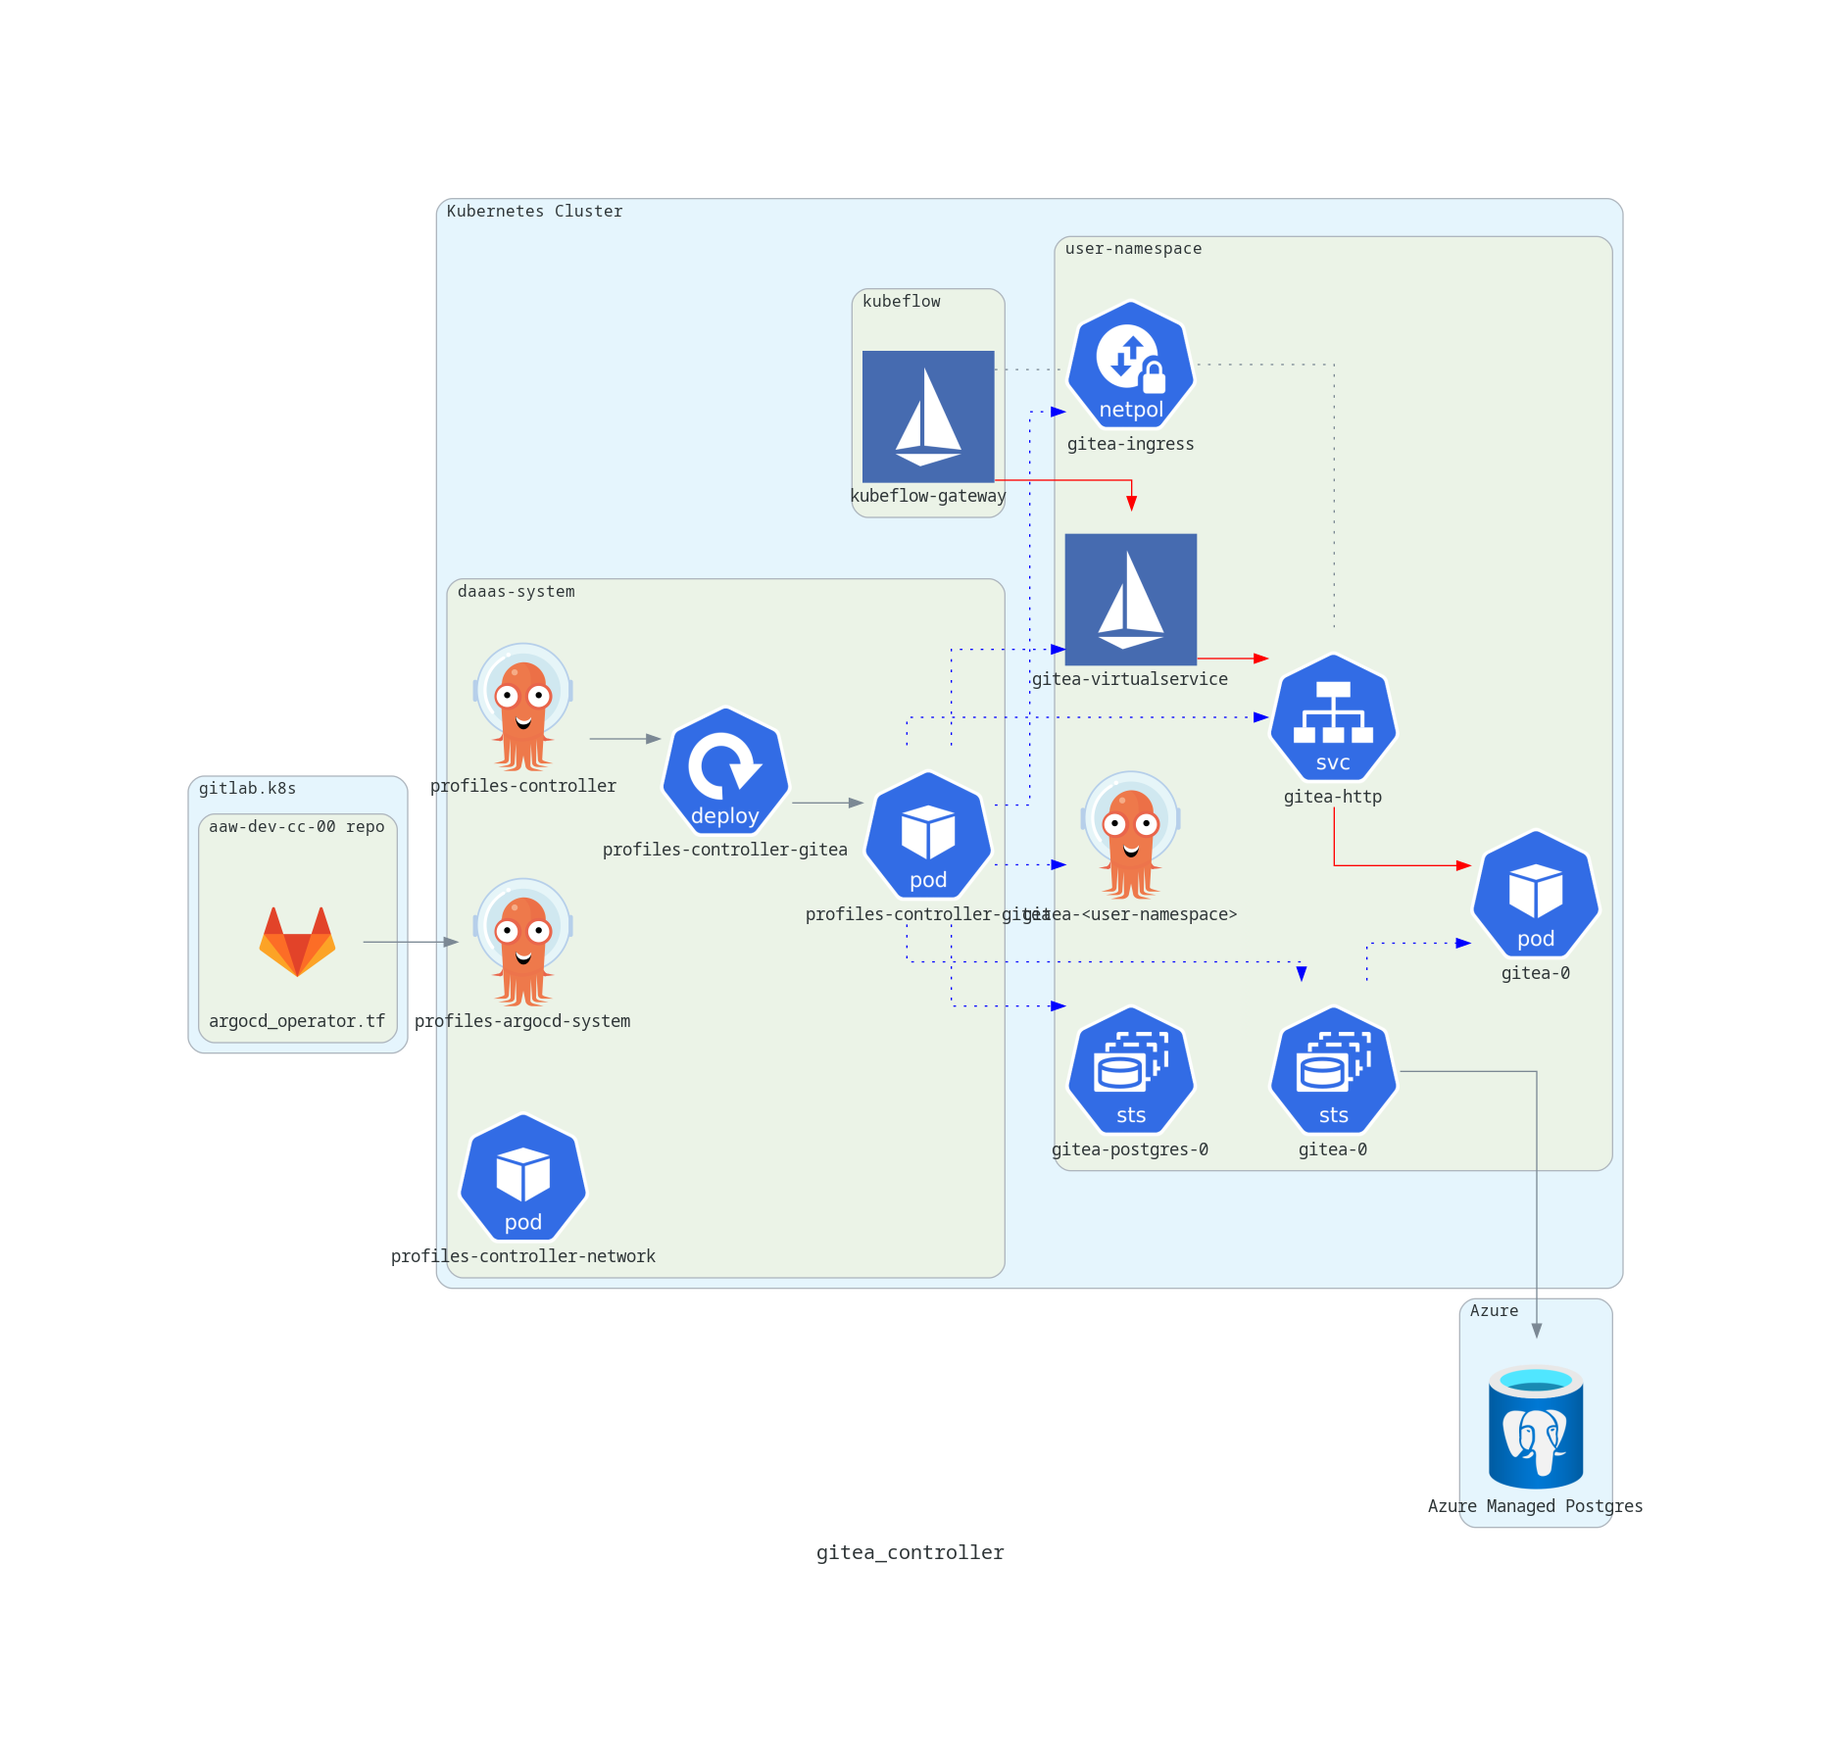
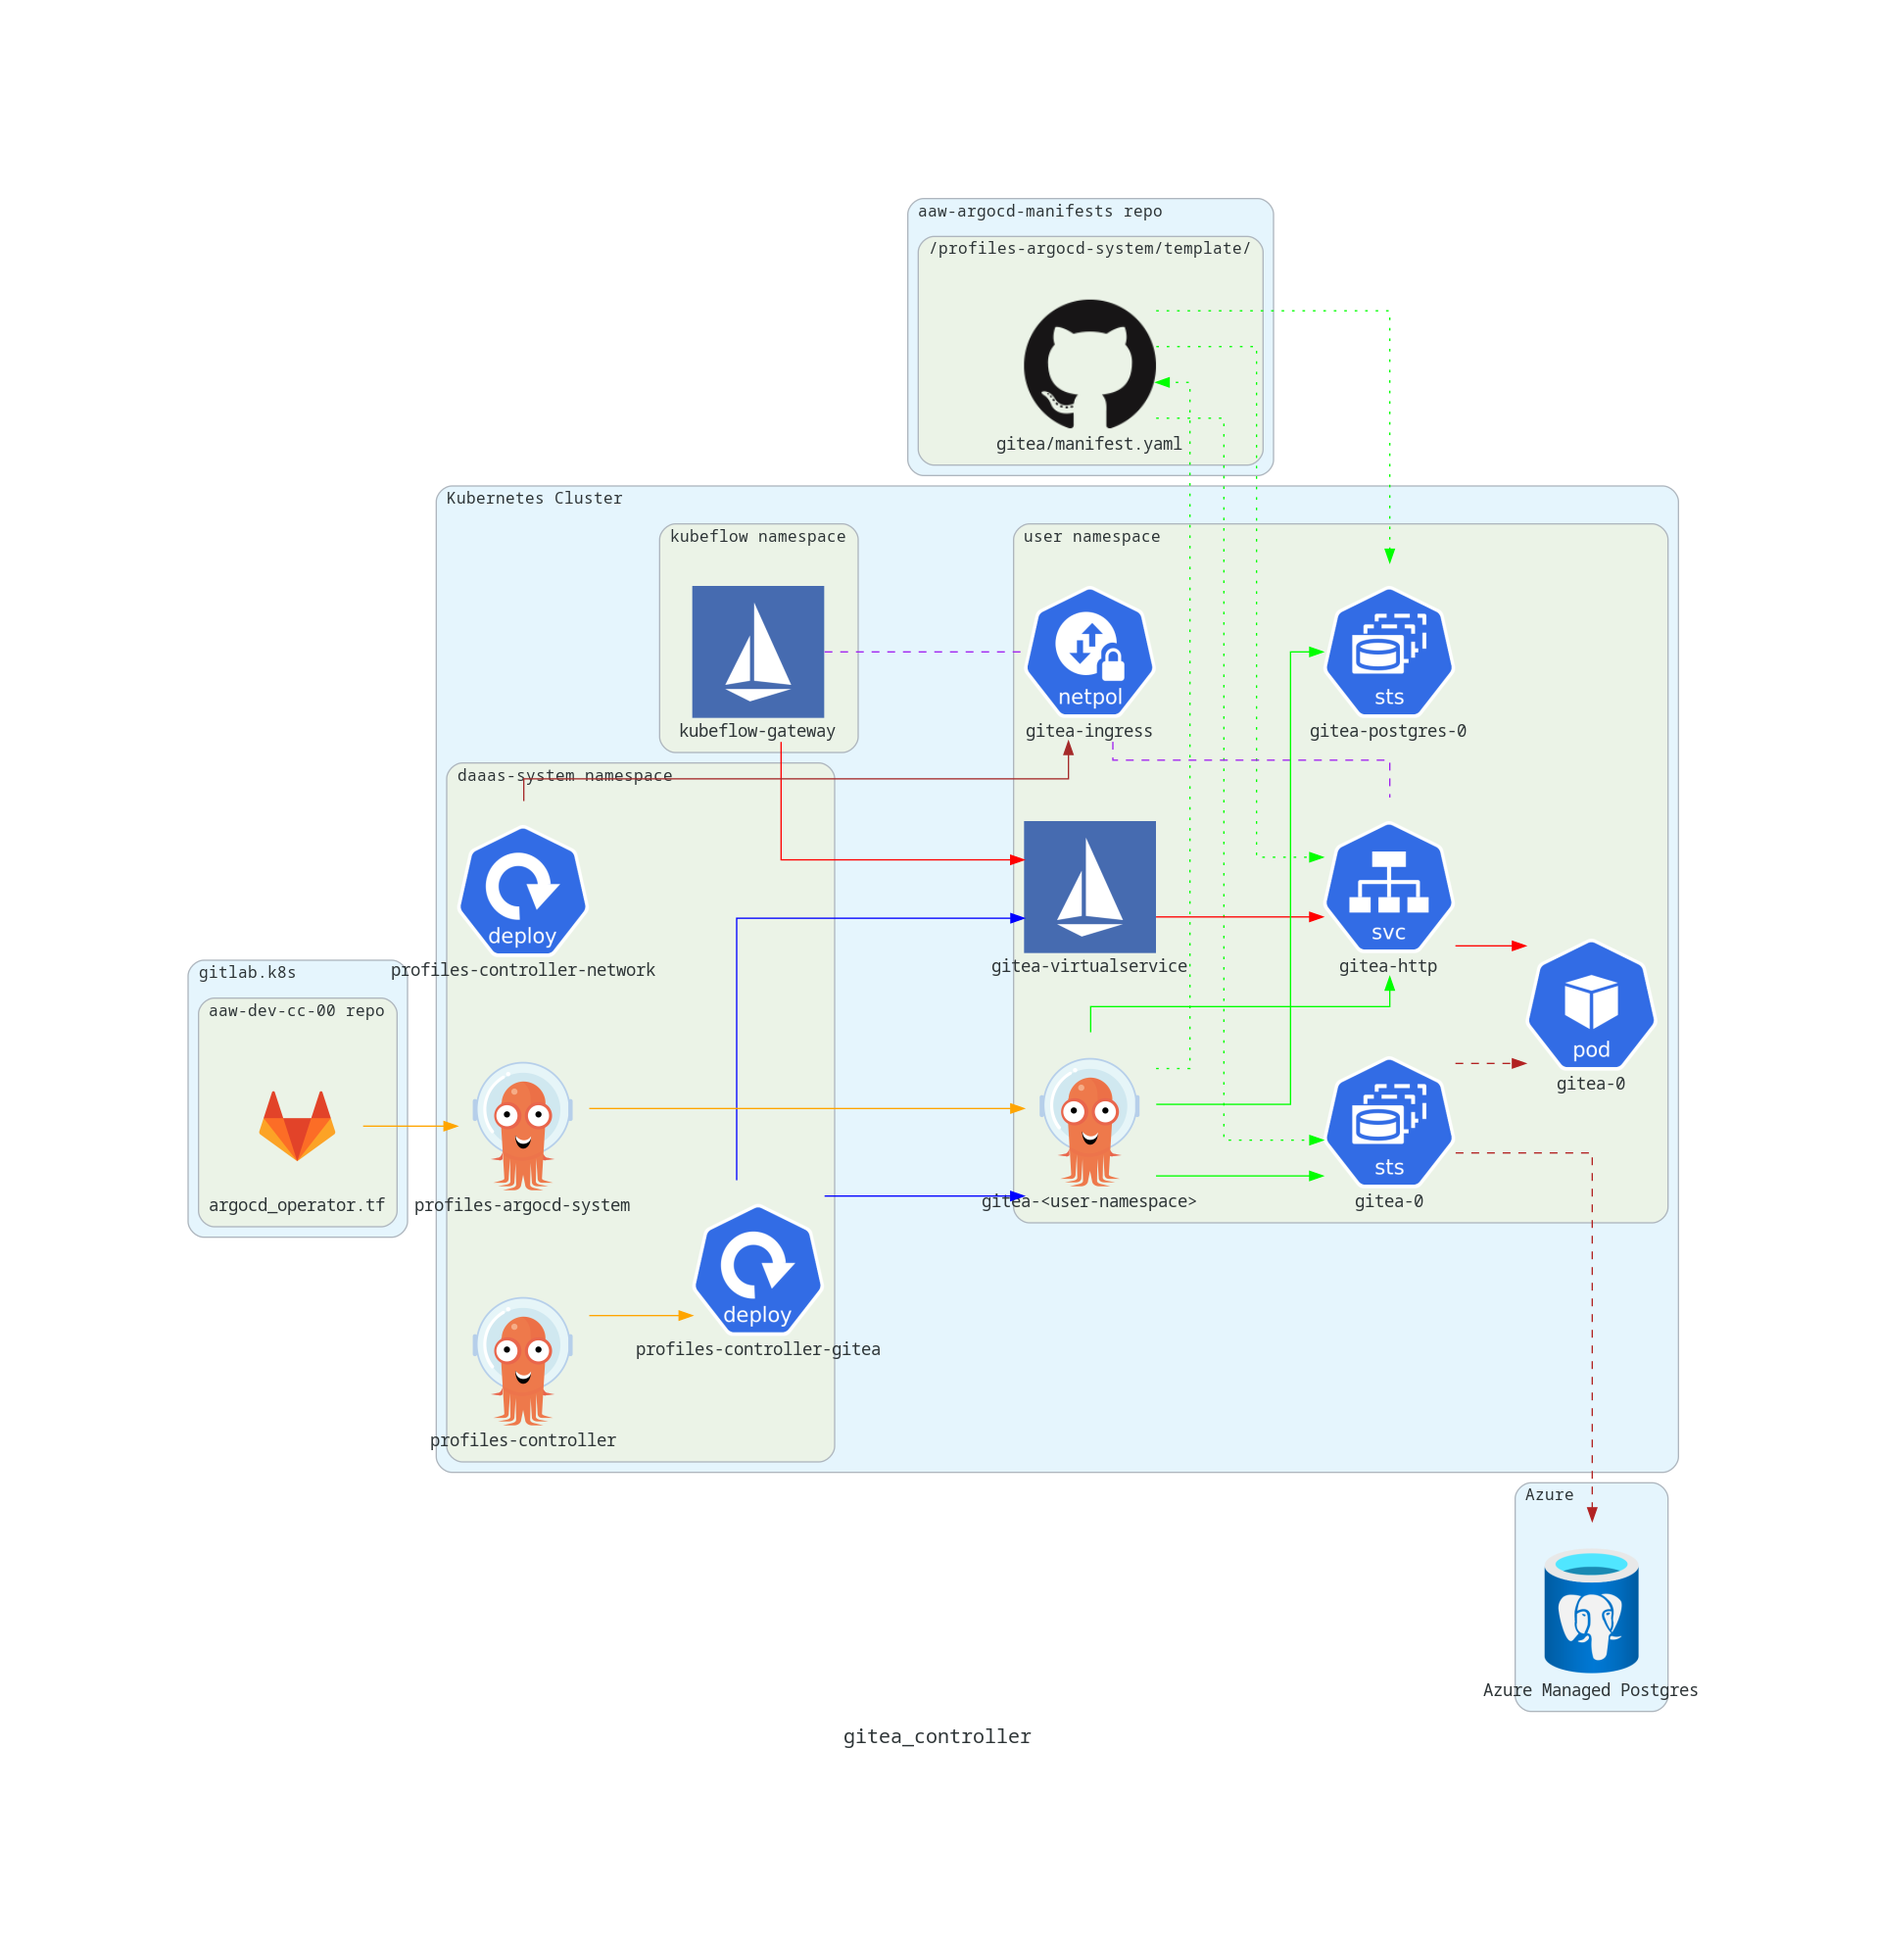
feat(README.md): add documentation for how to create/modify a controller

Changed region(s): [[0.0936, 0.0936, 0.9048, 0.9047], [0.6864, 0.5304, 0.78, 0.6552], [0.4368, 0.8735, 0.5616, 0.9047]]

diff --git a/docs/diagrams/gitea_controller.py b/docs/diagrams/gitea_controller.py
@@ -1,19 +1,10 @@
 import os
 
-from diagrams import Cluster
-from diagrams import Diagram
-from diagrams import Edge
-
+from diagrams import Cluster, Diagram, Edge
 from diagrams.azure.database import DatabaseForPostgresqlServers
-
-from diagrams.k8s.compute import Pod
-from diagrams.k8s.compute import StatefulSet
-from diagrams.k8s.compute import Deployment
-
-from diagrams.k8s.network import NetworkPolicy
-from diagrams.k8s.network import Service
-
 from diagrams.custom import Custom
+from diagrams.k8s.compute import Deployment, Pod, StatefulSet
+from diagrams.k8s.network import NetworkPolicy, Service
 
 
 def myself() -> str:
@@ -23,15 +14,19 @@ def myself() -> str:
 
 
 with Diagram(myself(), show=False):
+    with Cluster("aaw-argocd-manifests repo"):
+        with Cluster("/profiles-argocd-system/template/"):
+            github_manifests = Custom(
+                "gitea/manifest.yaml", icon_path="icons/github.png",
+            )
     with Cluster("gitlab.k8s"):
         with Cluster("aaw-dev-cc-00 repo"):
             gitlab_tf = Custom("argocd_operator.tf", icon_path="icons/gitlab.png")
     with Cluster("Azure"):
         postgres = DatabaseForPostgresqlServers("Azure Managed Postgres")
     with Cluster("Kubernetes Cluster"):
-        with Cluster("daaas-system"):
-            gitea_controller_pod = Pod("profiles-controller-gitea")
-            network_controller = Pod("profiles-controller-network")
+        with Cluster("daaas-system namespace"):
+            network_controller = Deployment("profiles-controller-network")
             profiles_controller_gitea = Deployment("profiles-controller-gitea")
             profiles_argocd_system = Custom(
                 "profiles-argocd-system", icon_path="icons/argo.png"
@@ -40,7 +35,7 @@ with Diagram(myself(), show=False):
                 "profiles-controller", icon_path="icons/argo.png"
             )
 
-        with Cluster("user-namespace"):
+        with Cluster("user namespace"):
             gitea_argocd = Custom("gitea-<user-namespace>", icon_path="icons/argo.png")
             gitea_ss = StatefulSet("gitea-0")
             gitea_pod = Pod("gitea-0")
@@ -48,30 +43,27 @@ with Diagram(myself(), show=False):
             gitea_http_service = Service("gitea-http")
             istio_vs = Custom("gitea-virtualservice", icon_path="icons/istio.png")
             network_policy = NetworkPolicy("gitea-ingress")
-        with Cluster("kubeflow"):
+        with Cluster("kubeflow namespace"):
             kubeflow_gateway = Custom("kubeflow-gateway", icon_path="icons/istio.png")
 
         # Gitea Statefulset manages a Gitea pod
-        gitea_ss >> Edge(style="dotted", color="blue") >> gitea_pod
+        gitea_ss >> Edge(style="dashed", color="firebrick") >> gitea_pod
 
         # Network policy permits kubeflow gateway pods to communicate with pods
         # exposed by the gitea-http service.
-        kubeflow_gateway - Edge(style="dotted") - network_policy - Edge(
-            style="dotted"
+        kubeflow_gateway - Edge(style="dashed", color="purple") - network_policy - Edge(
+            style="dashed", color="purple"
         ) - gitea_http_service
 
         # Gitea controller is deployed by the profiles-controller ArgoCD Application
-        profiles_controller_argocd >> profiles_controller_gitea >> gitea_controller_pod
+        profiles_controller_argocd >> Edge(color="orange") >> profiles_controller_gitea
         # Gitea controller creates various components in user's namespace
-        gitea_controller_pod >> Edge(style="dotted", color="blue") >> gitea_ss
-        gitea_controller_pod >> Edge(style="dotted", color="blue") >> gitea_postgres
-        gitea_controller_pod >> Edge(style="dotted", color="blue") >> gitea_http_service
-        gitea_controller_pod >> Edge(style="dotted", color="blue") >> istio_vs
-        gitea_controller_pod >> Edge(style="dotted", color="blue") >> gitea_argocd
+        profiles_controller_gitea >> Edge(color="blue") >> istio_vs
+        profiles_controller_gitea >> Edge(color="blue") >> gitea_argocd
 
         # Network policy controller creates the network policy that allows kubeflow
         # gateway traffic to be sent to gitea pods.
-        gitea_controller_pod >> Edge(style="dotted", color="blue") >> network_policy
+        network_controller >> Edge(color="brown") >> network_policy
 
         # Network traffic enters through the kubeflow gateway and is routed to the
         # gitea-http service by the Istio VirtualService.
@@ -80,8 +72,25 @@ with Diagram(myself(), show=False):
         ) >> gitea_http_service >> Edge(color="red") >> gitea_pod
 
         # TODO: Update this with plans for managed postgres
-        gitea_ss >> postgres
+        gitea_ss >> Edge(style="dashed", color="firebrick") >> postgres
 
         # argocd_operator.tf deploys argocd operator, one argocd installation is the
         # profiles-argocd-system that watches and deploys per-namespace applications.
-        gitlab_tf >> profiles_argocd_system
+        gitlab_tf >> Edge(color="orange") >> profiles_argocd_system
+
+        # The ArgoCD Application deployed into a user's namespace watches the
+        # /profiles-argocd-system/template/gitea/manifest.yaml which deploys all of
+        # the necessary kubernetes resources to deploy a Gitea Statefulset.
+        gitea_argocd >> Edge(style="dotted", color="green") >> github_manifests
+
+        github_manifests >> Edge(style="dotted", color="green") >> gitea_ss
+        github_manifests >> Edge(style="dotted", color="green") >> gitea_postgres
+        github_manifests >> Edge(style="dotted", color="green") >> gitea_http_service
+
+        gitea_argocd >> Edge(color="green") >> gitea_ss
+        gitea_argocd >> Edge(color="green") >> gitea_postgres
+        gitea_argocd >> Edge(color="green") >> gitea_http_service
+
+        # profiles-argocd-system ArgoCD installation manages gitea-<user-namespace> ArgoCD
+        # applications in the user's namespace.
+        profiles_argocd_system >> Edge(color="orange") >> gitea_argocd

diff --git a/README.md b/README.md
@@ -13,7 +13,23 @@ The diagram below illustrates how profiles controller components are rolled out 
 [^3]: Argo icon provided by [CNCF branding](https://cncf-branding.netlify.app/projects/argo/).
 [^4]: Moby (Docker) icon provided by [icons8](https://icons8.com/icons/set/docker)
 
+### How to Create a Controller
 
+**Note**: Modifying a controller is a subset of these steps; if you are only updating an existing controller, ignore the steps that don't apply.
+
+1. Create a `.go` file in the `cmd` folder of **this** repository with the name of your controller. Your controller must create a `cobra.Command` and register it with the `rootCmd` of the application. Your controller will be invoked with the entrypoint `./profiles-controller <your controller name>`.
+2. Modify the profiles-controller helm chart in the [StatCan charts](https://github.com/StatCan/charts) repo. Add the deployment containing your new controller and update the `values.yaml` file accordingly with any new parameters specific to your container.
+3. Once your new controller is ready, merge your branch to the `main` branch of **this** repository. A Github action in **this** repository runs a build job (see `.github/workflows/build.yml`) that builds the profiles-controller container image and pushes it to Azure container registry. The pushed image is tagged with the commit SHA of the git commit that triggered the Github Action.
+4. Go to the build job in the Github action and copy the commit SHA that the image is tagged with to your clipboard. This can be found at the top of the step called **Run docker build** in the **build** job.
+5. Go to the [aaw-argocd-manifests](https://github.com/StatCan/aaw-argocd-manifests) repository and open the `application.jsonnet` file that deploys the `profiles-controller` ArgoCD application in the `daaas-system` namespace. In this file, paste the commit SHA from the previous step to the `image.tag` field. This updates the image tag for the base image used by the `profiles-controller` deployment. Note that you can make this edit directly through Github's editing features. This edit should be merged into either the `aaw-dev-cc-00` branch or the `aaw-prod-cc-00` branch depending on whether the update applies to the dev or prod environments. The `profiles-controller` ArgoCD application watches for changes to the `application.jsonnet` file on these branches.
+
+
+### Controllers that Deploy Per-Namespace Applications
+
+Some controllers deploy per-namespace applications for each user (e.g. Gitea, S3Proxy). In this case, a few additional steps may be required.
+
+1. The `profiles-argocd-system` folder of the [aaw-argocd-manifests](https://github.com/StatCan/aaw-argocd-manifests) repository contains manifests that get deployed by per-namespace ArgoCD applications. The intended pattern is that Kubernetes manifests are applied directly with Kustomize patches as required.
+2. Depending on what a particular per-namespace application looks like, there may be a manual step required where a developer must build the manifests by, for example, templating a helm chart and saving the output in a `manifest.yaml` file. In this case, a PR must be made to either the `aaw-dev-cc-00` or `aaw-prod-cc-00` branches of the aaw-argocd-manifests repo with the newly build `manifest.yaml` file.
 
 ## Terminology
 
